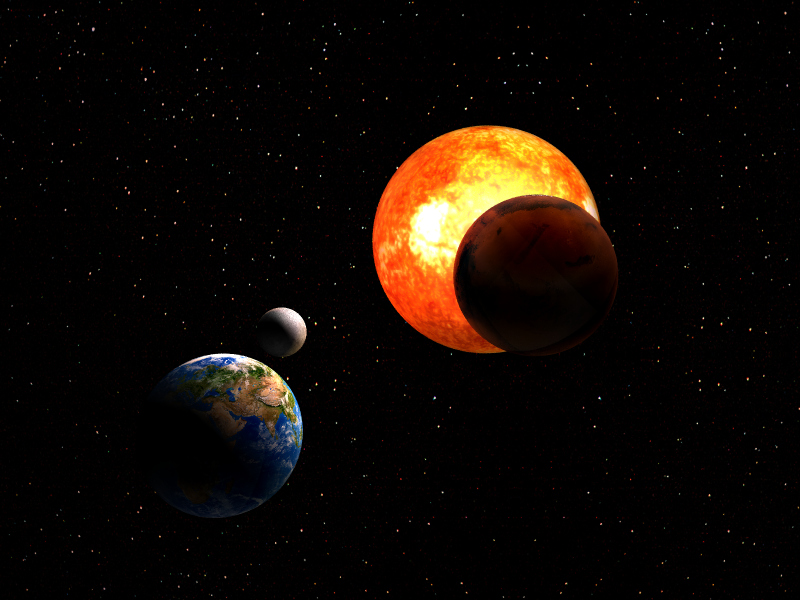
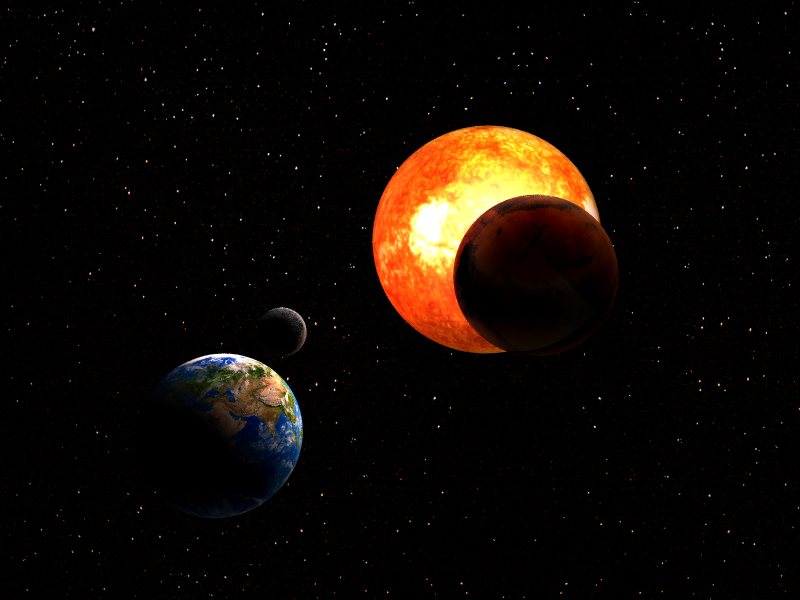
final bonus implementation

diff --git a/HW3/scene/Material.java b/HW3/scene/Material.java
@@ -6,6 +6,7 @@ public class Material {
 	private Color diffuse, specular, reflection;
 	private float phong, tranparency;
 	private float refractionRatio = 1;
+	private float specularNoise = 0;
 
 	public Material(String[] params) {
 		this(new Color(Float.parseFloat(params[0]), Float.parseFloat(params[1]), Float.parseFloat(params[2])),
@@ -14,6 +15,9 @@ public class Material {
 				Float.parseFloat(params[9]), Float.parseFloat(params[10]));
 		if (params.length > 11) {
 			this.refractionRatio = Float.parseFloat(params[11]);
+		}
+		if (params.length > 12) {
+			this.specularNoise = Float.parseFloat(params[12]);
 		}
 	}
 
@@ -30,7 +34,8 @@ public class Material {
 	}
 
 	public Color getSpecular() {
-		return new Color(this.specular);
+		float noise = this.specularNoise == 0 ? 0F : (float)main.RayTracer.rand.nextFloat() * this.specularNoise;
+		return new Color(this.specular).add(new Color(noise,noise,noise));
 	}
 
 	public Color getReflection() {

diff --git a/HW3/main/RayTracer.java b/HW3/main/RayTracer.java
@@ -420,7 +420,7 @@ public class RayTracer {
 			// add specular color
 			cosAngle = Vector.cos(ray.getDirection(), lightReflect);
 			if (cosAngle < 0) {
-				cosAngle = (float) Math.pow(cosAngle, mat.getPhong());
+				cosAngle = (float) Math.pow(Math.abs(cosAngle), mat.getPhong());
 				specularColor.mul(cosAngle * light.getSpecularIntensity());
 				baseColor.add(specularColor);
 			}
